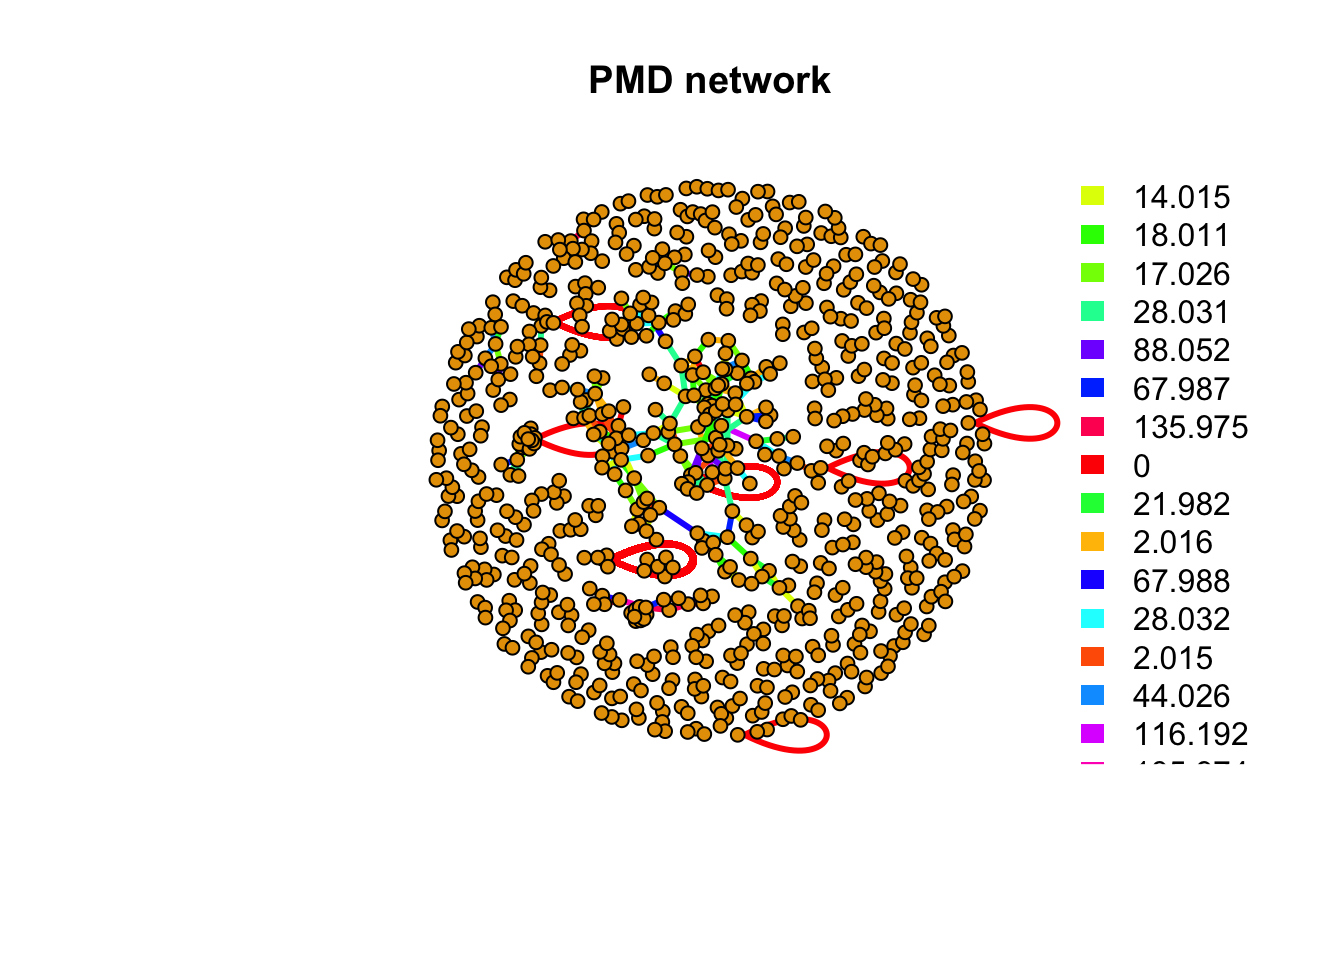
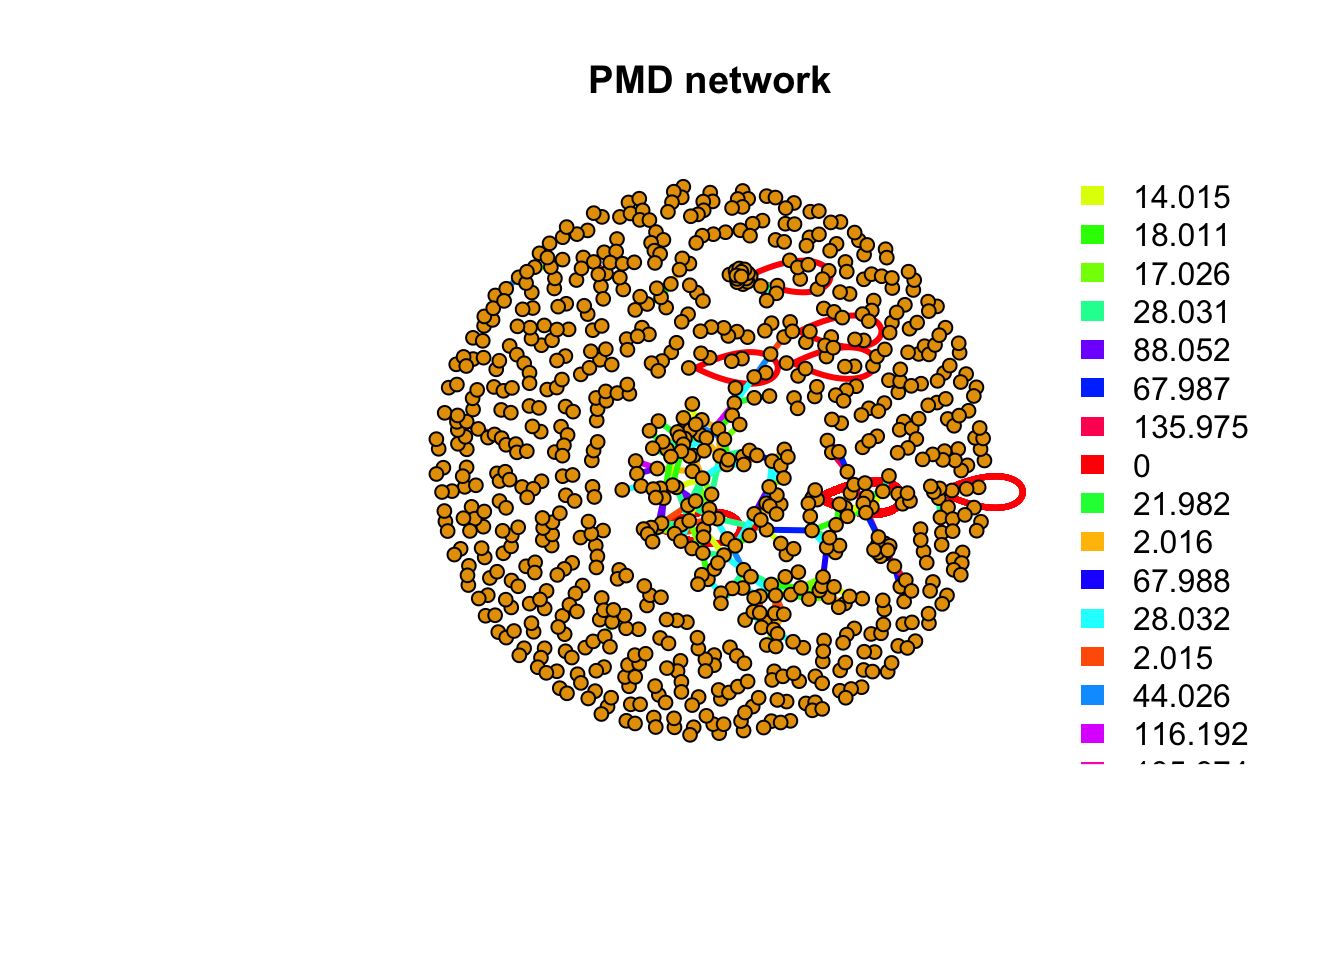
update post

Changed region(s): [[0.3125, 0.1875, 0.7812, 0.7812]]

diff --git a/content/en/2024-05-29-reactomics-analysis-for-ms-only-data/index.html b/content/en/2024-05-29-reactomics-analysis-for-ms-only-data/index.html
@@ -13,8 +13,15 @@ tags: []
 <p>When retention time is not provided, m/z vector can still be used to check reaction level changes. To apply this analysis, you need to install the devel version(&gt;=0.2.6) of PMD package:</p>
 <pre class="r"><code>remotes::install_github(&#39;yufree/pmd&#39;)</code></pre>
 <pre><code>## Using github PAT from envvar GITHUB_PAT. Use `gitcreds::gitcreds_set()` and unset GITHUB_PAT in .Renviron (or elsewhere) if you want to use the more secure git credential store instead.</code></pre>
-<pre><code>## Skipping install of &#39;pmd&#39; from a github remote, the SHA1 (7ca573c9) has not changed since last install.
-##   Use `force = TRUE` to force installation</code></pre>
+<pre><code>## Downloading GitHub repo yufree/pmd@HEAD</code></pre>
+<pre><code>## 
+## ── R CMD build ─────────────────────────────────────────────────────────────────
+## * checking for file ‘/private/var/folders/nj/68q18qjd2x1cb8my282c58cr0000gn/T/Rtmpx52AfQ/remotes44f5531ee188/yufree-pmd-87e8de1/DESCRIPTION’ ... OK
+## * preparing ‘pmd’:
+## * checking DESCRIPTION meta-information ... OK
+## * checking for LF line-endings in source and make files and shell scripts
+## * checking for empty or unneeded directories
+## * building ‘pmd_0.2.6.tar.gz’</code></pre>
 <p>You can still use <code>getrda</code> to find the high frequency PMDs.</p>
 <pre class="r"><code>library(pmd)
 data(spmeinvivo)
@@ -109,3 +116,15 @@ legend(&quot;topright&quot;,bty = &quot;n&quot;,
        legend=unique(E(net)$diff2),
        fill=unique(pal[as.numeric(as.factor(E(net)$diff2))]), border=NA,horiz = F)</code></pre>
 <p><img src="{{< blogdown/postref >}}index_files/figure-html/unnamed-chunk-5-1.png" width="672" /></p>
+<p>If you prefer to get a pmd network for a specific mass. You can still use <code>getchain</code> function.</p>
+<pre class="r"><code>data(spmeinvivo)
+spmeinvivo$rt &lt;- NULL
+chain &lt;- getchain(spmeinvivo,diff = c(2.02,14.02,15.99,58.04,13.98),mass = 286.3101,digits = 2,corcutoff = 0)
+# show as network
+net &lt;- graph_from_data_frame(chain$sdac,directed = F)
+pal &lt;- grDevices::rainbow(5)
+plot(net,vertex.label=round(as.numeric(V(net)$name),2),vertex.size =5,edge.width = 3,edge.color = pal[as.numeric(as.factor(E(net)$diff2))],vertex.label.dist=1,vertex.color=ifelse(round(as.numeric(V(net)$name),4) %in% 286.3101,&#39;red&#39;,&#39;black&#39;), main = &#39;PMD network&#39;)
+legend(&quot;topright&quot;,bty = &quot;n&quot;,
+       legend=unique(E(net)$diff2),
+       fill=unique(pal[as.numeric(as.factor(E(net)$diff2))]), border=NA,horiz = F)</code></pre>
+<p><img src="{{< blogdown/postref >}}index_files/figure-html/unnamed-chunk-6-1.png" width="672" /></p>
